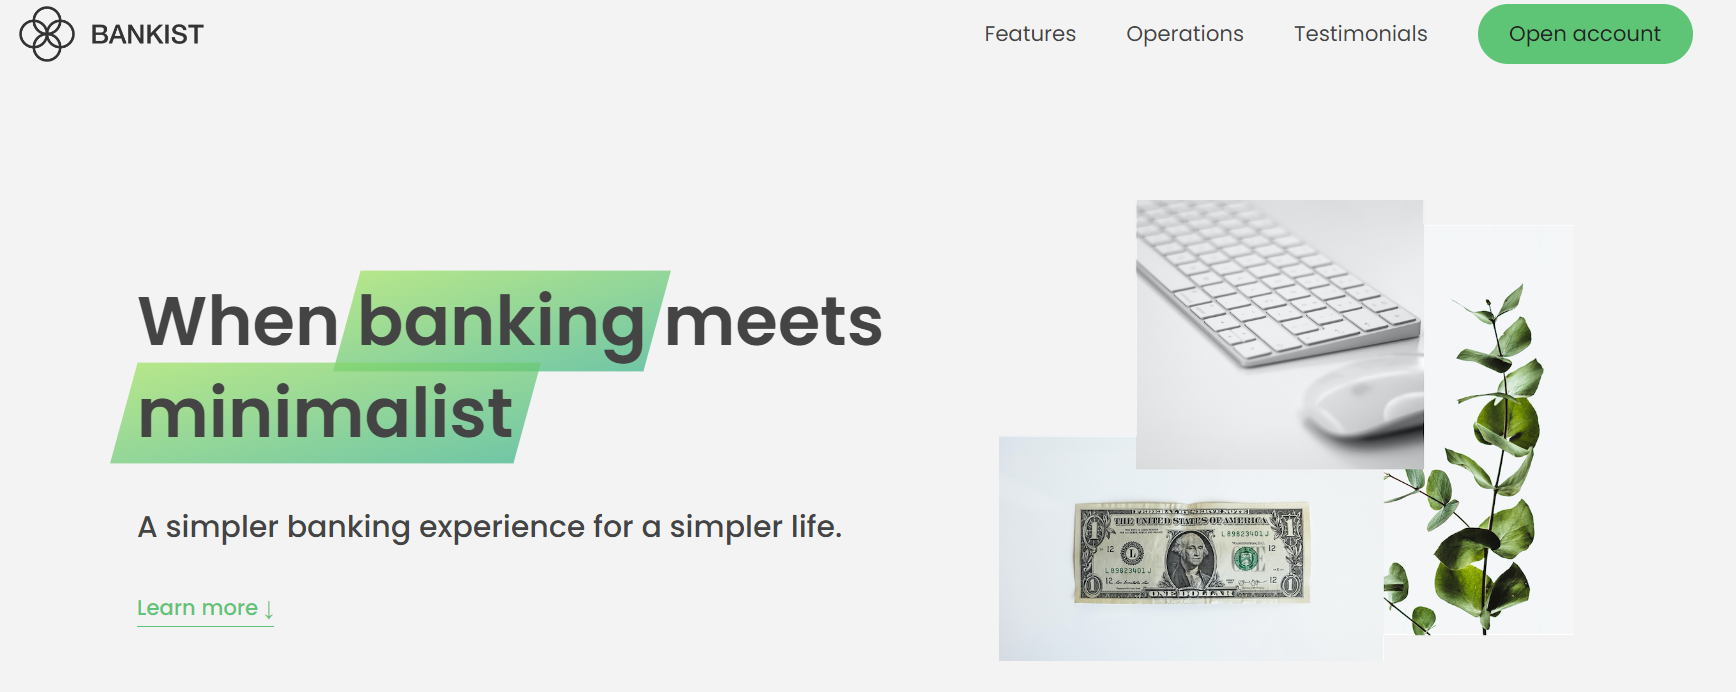
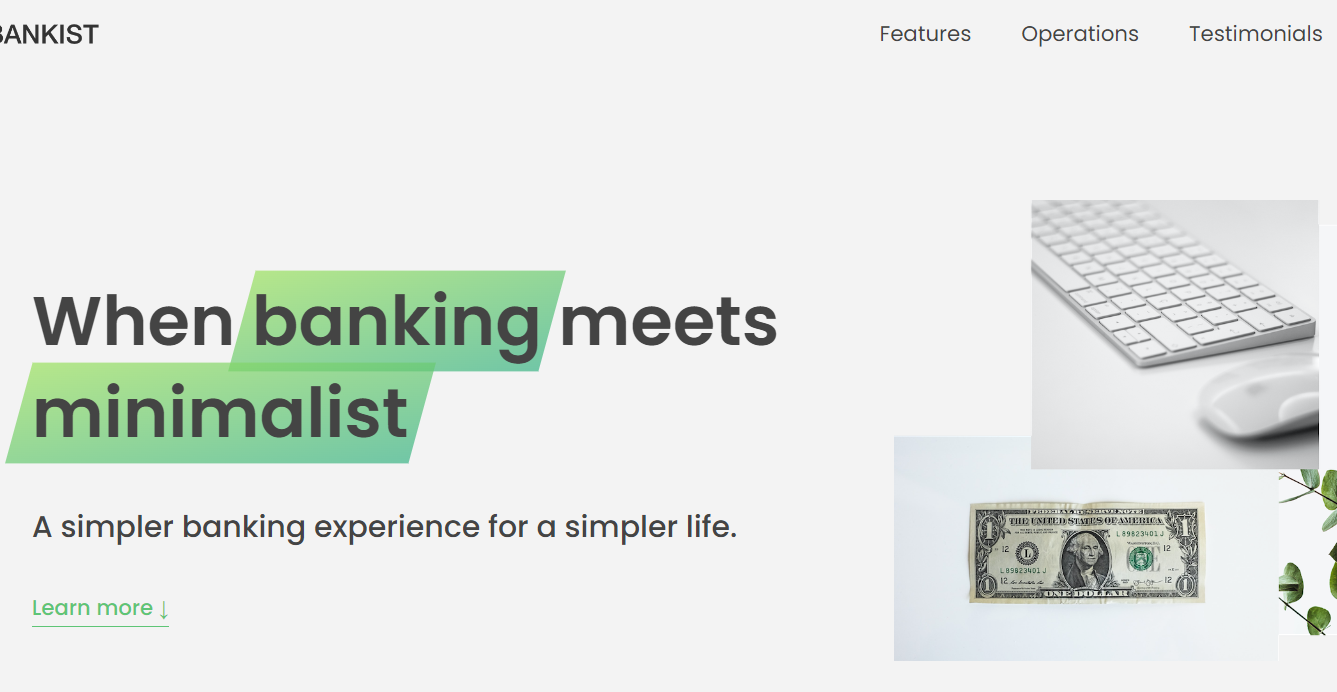
working on footer and authentication

diff --git a/src/firebase.js b/src/firebase.js
@@ -1,16 +1,66 @@
-import { initializeApp } from "firebase/app";
-import { getAuth } from "firebase/auth";
+import {
+  getAuth,
+  createUserWithEmailAndPassword,
+  signInWithEmailAndPassword,
+  signOut,
+} from "firebase/auth";
 
+import { initializeApp } from "firebase/app";
+
+// TODO: Replace the following with your app's Firebase project configuration
 const firebaseConfig = {
-  apiKey: "AIzaSyCMeGRVQAvBzo9yCFKUZ1eNLilbhy3PB_k",
-  authDomain: "auth-development-76237.firebaseapp.com",
-  projectId: "auth-development-76237",
-  storageBucket: "auth-development-76237.appspot.com",
-  messagingSenderId: "97143514142",
-  appId: "1:97143514142:web:2811dd1b2ea24f99417a0f"
+  apiKey: "AIzaSyBPYRrLl4-Mm5bj2NmkfB3NXWVdAk90cts",
+  authDomain: "vadymkiiashko.firebaseapp.com",
+  projectId: "vadymkiiashko",
+  storageBucket: "vadymkiiashko.appspot.com",
+  messagingSenderId: "610818316206",
+  appId: "1:610818316206:web:42606f95f0c0fbcccd9a3f",
 };
 
 const app = initializeApp(firebaseConfig);
 
-export default app;
-export const auth = getAuth();
+const auth = getAuth();
+
+function myCreateUserWithEmailAndPassword({email, password}){
+
+  console.log(password)
+  createUserWithEmailAndPassword(auth, email, password)
+  .then((userCredential) => {
+    // Signed in
+    const user = userCredential.user;
+    console.log(user)
+    // ...
+    })
+    .catch((error) => {
+      const errorCode = error.code;
+      const errorMessage = error.message;
+      // ..
+    });
+    
+  }
+    const mySignInWithEmailAndPassword = (auth, email, password) =>
+  signInWithEmailAndPassword(auth, email, password)
+    .then((userCredential) => {
+      // Signed in
+      const user = userCredential.user;
+      // ...
+    })
+    .catch((error) => {
+      const errorCode = error.code;
+      const errorMessage = error.message;
+    });
+const mySignOut = (auth) =>
+  signOut(auth)
+    .then(() => {
+      // Sign-out successful.
+    })
+    .catch((error) => {
+      // An error happened.
+    });
+
+export {
+  myCreateUserWithEmailAndPassword,
+  mySignInWithEmailAndPassword,
+  mySignOut,
+  auth,
+};

diff --git a/src/utils/data.js b/src/utils/data.js
@@ -5,14 +5,30 @@ const projects = [
     description: "landing page for a minimalistic banking app",
     externalUrl: "https://vadymkiiashko-bankist.firebaseapp.com/",
     thumbnails: [
-      "../assets/img/bankist/bankist-0.png",
-      "../assets/img/bankist/bankist-1.png",
-      "../assets/img/bankist/bankist-2.png",
+      "/assets/img/bankist/bankist-0.png",
+      "/assets/img/bankist/bankist-1.png",
+      "/assets/img/bankist/bankist-2.png",
     ],
     info: {
       about: `This is a simplistic landing page for a minimalistic online bank. It was created as a part of an online Javascrip Udemy course by Jonas Schmedtmann all credit for styling goes to him.
        All the logic was implemented by me and then checked agains the course to find a better solution or to confirm that the task was done correctly. 
        the Project uses Javascript HTML and CSS.`,
+    },
+  },
+  {
+    id: 2,
+    name: "Monsters Rolodex",
+    description: "Choose your monter to see more detailed information",
+    externalUrl: "https://vadymkiiashko-bankist.firebaseapp.com/",
+    thumbnails: [
+      "/assets/img/monstersRolodex/monstersRolodex-0.png",
+      "/assets/img/monstersRolodex/monstersRolodex-1.png",
+      "/assets/img/monstersRolodex/monstersRolodex-2.png",
+    ],
+    info: {
+      about: `This is a simple app theat implements basic search functionality where you can filter the list of Monsters by name. The list is instantly filtered as you type and that reflects on the Monsters that you see on your screen. 
+      
+      The project was created using React with useEffect hooks to fetch images and Personal information for each Monster from respective external resources. The Search component uses state to keep track of current search and filter the monsters accordingly, which in turn rerenders monsters to properly reflect the searchresults.`,
     },
   },
 ];

diff --git a/src/sass/components/projects.styles.scss b/src/sass/components/projects.styles.scss
@@ -11,9 +11,11 @@
   grid-template-columns: repeat(auto-fill, minmax(20em, 1fr));
   grid-gap: 20px;
   min-height: 300px;
+  height: 100%;
   .project-card {
     display: flex;
     height: 100%;
+    min-height: 15em;
     flex-direction: column;
     align-items: center;
     justify-content: flex-end;
@@ -32,25 +34,28 @@
       flex: 0 0 auto;
       justify-content: space-evenly;
       width: 100%;
-      min-height: 5em;
+      min-height: 4em;
       border-end-start-radius: 1em;
       border-end-end-radius: 1em;
       background-color: $pink;
       & span {
-        margin: 1em;
+        margin: 0.5em;
         text-transform: capitalize;
         font-size: 1em;
         font-weight: bolder;
-        line-height: 1.5em;
+        line-height: 1em;
         color: $main-color;
+        text-decoration: none;
         & a{
           text-decoration: none;
         }
-      }
-      & .project-about {
-        span {
+        &:last-child {
+          font-size: small;
+          color: black;
+          font-weight: light;
         }
       }
+   
     }
   }
 }

diff --git a/src/components/Signup.jsx b/src/components/Signup.jsx
@@ -3,6 +3,12 @@ import { Card, Form, Button } from "react-bootstrap";
 import { useRef } from "react";
 import { signup } from "../app/features/projectSlice";
 import { useDispatch } from "react-redux";
+import {
+  myCreateUserWithEmailAndPassword,
+  mySignInWithEmailAndPassword,
+  mySignOut,
+  
+} from "../firebase";
 
 const Signup = () => {
   const emailRef = useRef();
@@ -35,7 +41,10 @@ const Signup = () => {
               className='w-100 mt-4'
               type='submit'
               onClick={() =>
-                dispatch(signup({ email: "vadym@g.g", password: "qwe123" }))
+                myCreateUserWithEmailAndPassword(
+                  emailRef.current.value,
+                  passwordRef.current.value
+                )
               }>
               Sign Up
             </Button>

diff --git a/src/components/body/projectcard.component.jsx b/src/components/body/projectcard.component.jsx
@@ -2,14 +2,15 @@ import React from "react";
 import { Link } from "react-router-dom";
 
 const ProjectCard = ({ id, name, description }) => {
+  console.log(name)
   return (
-    <Link to={`/projects/:${id}`}>
+    <Link to={`/projects/:${id}`} style={{textDecoration:'none'}}>
       <div className='project-card'
       style={{
             backgroundImage: `linear-gradient(
               rgba(22, 34, 60, 0.85), 
               rgba(10, 10, 10, 0.45)
-            ),url(../assets/img/${name}/snapshotImg.PNG)`,
+            ),url(../assets/img/${name.replaceAll(' ','').replace(name[0] , name[0].toLowerCase())}/snapshotImg.png)`,
             backgroundSize: 'cover',
 
           }}>

diff --git a/src/sass/components/home.styles.scss b/src/sass/components/home.styles.scss
@@ -3,7 +3,7 @@
 .banner {
   width: 100%;
   height: 100vh;
-  
+
   & .banner-image {
     display: flex;
     flex-direction: column;
@@ -54,8 +54,9 @@
   }
 }
 
-#overview{
+#overview {
   width: 100%;
+  padding: 5rem;
   & h2 {
     display: flex;
     align-items: center;
@@ -66,11 +67,10 @@
   }
   & .icons {
     width: 100%;
-    display : grid;
-    grid-template-columns: repeat(auto-fit , minmax(200px, 1fr) );
+    display: grid;
+    grid-template-columns: repeat(auto-fit, minmax(200px, 1fr));
     gap: 1rem;
     grid-auto-rows: 30em;
     padding: 0 5em;
-    
   }
 }

diff --git a/src/App.jsx b/src/App.jsx
@@ -11,6 +11,7 @@ import CustomError from "./components/customError";
 import Home from "./pages/homePage.component";
 import { useState } from "react";
 import SignInSignup from "./components/signInSignup";
+import Footer from "./components/footer.component";
 
 function App() {
   const [error , setError] = useState(null);
@@ -44,6 +45,7 @@ function App() {
         <Route path='/about' element={<About />} />
         <Route path='*' element={<CustomError message ={'sorry, that page doesnt exist'}/>} />
       </Routes>
+      <Footer />
     </div>
   );
 }

diff --git a/src/sass/components/project-card.styles.scss b/src/sass/components/project-card.styles.scss
@@ -55,9 +55,11 @@
       height: 30em;
       max-width: 60em;
       overflow: hidden;
+      position: relative;
       .picture {
         object-fit: contain;
-        width: 100%;
+        min-width: 100%;
+        max-width: 60em;
         transition: 1s;
       }
     }
@@ -77,9 +79,6 @@
     padding: 0.5em 1em;
     background-color: $text-color-light;
     border-radius: 2em;
-    .redirect {
-    }
-
     &:hover {
       scale: 1.5;
     }

diff --git a/index.html b/index.html
@@ -8,7 +8,7 @@
     <link href="https://fonts.googleapis.com/css2?family=Bitter:wght@300&display=swap" rel="stylesheet">
 
     <meta name="viewport" content="width=device-width, initial-scale=1.0" />
-    <title>Vite + React</title>
+    <title>Vadym Kiiashko portfolio</title>
   </head>
   <body>
     <div id="root"></div>

diff --git a/src/components/body/project.component.jsx b/src/components/body/project.component.jsx
@@ -55,7 +55,7 @@ const Project = () => {
             <img
               className='picture'
               src={thumbnail}
-              alt='bankist app screenshot'
+              alt={`${name} app screenshot`}
               style={{ transform: `translateX(-${100 * currentImg}%)` }}
             />
           ))}

diff --git a/src/components/signInSignup.jsx b/src/components/signInSignup.jsx
@@ -1,10 +1,9 @@
 import React from 'react'
 import Signup from './Signup'
-import {Card , Form , Button} from 'react-bootstrap'
-import { useRef } from 'react'
 
 
 const SignInSignup = () => {
+
   return (
     <div>
         <Signup />

diff --git a/src/components/footer.component.jsx b/src/components/footer.component.jsx
@@ -1,0 +1,10 @@
+import React from 'react'
+import '../sass/components/footer.styles.scss'
+
+const Footer = () => {
+  return (
+    <div className='footer'>Footer</div>
+  )
+}
+
+export default Footer
